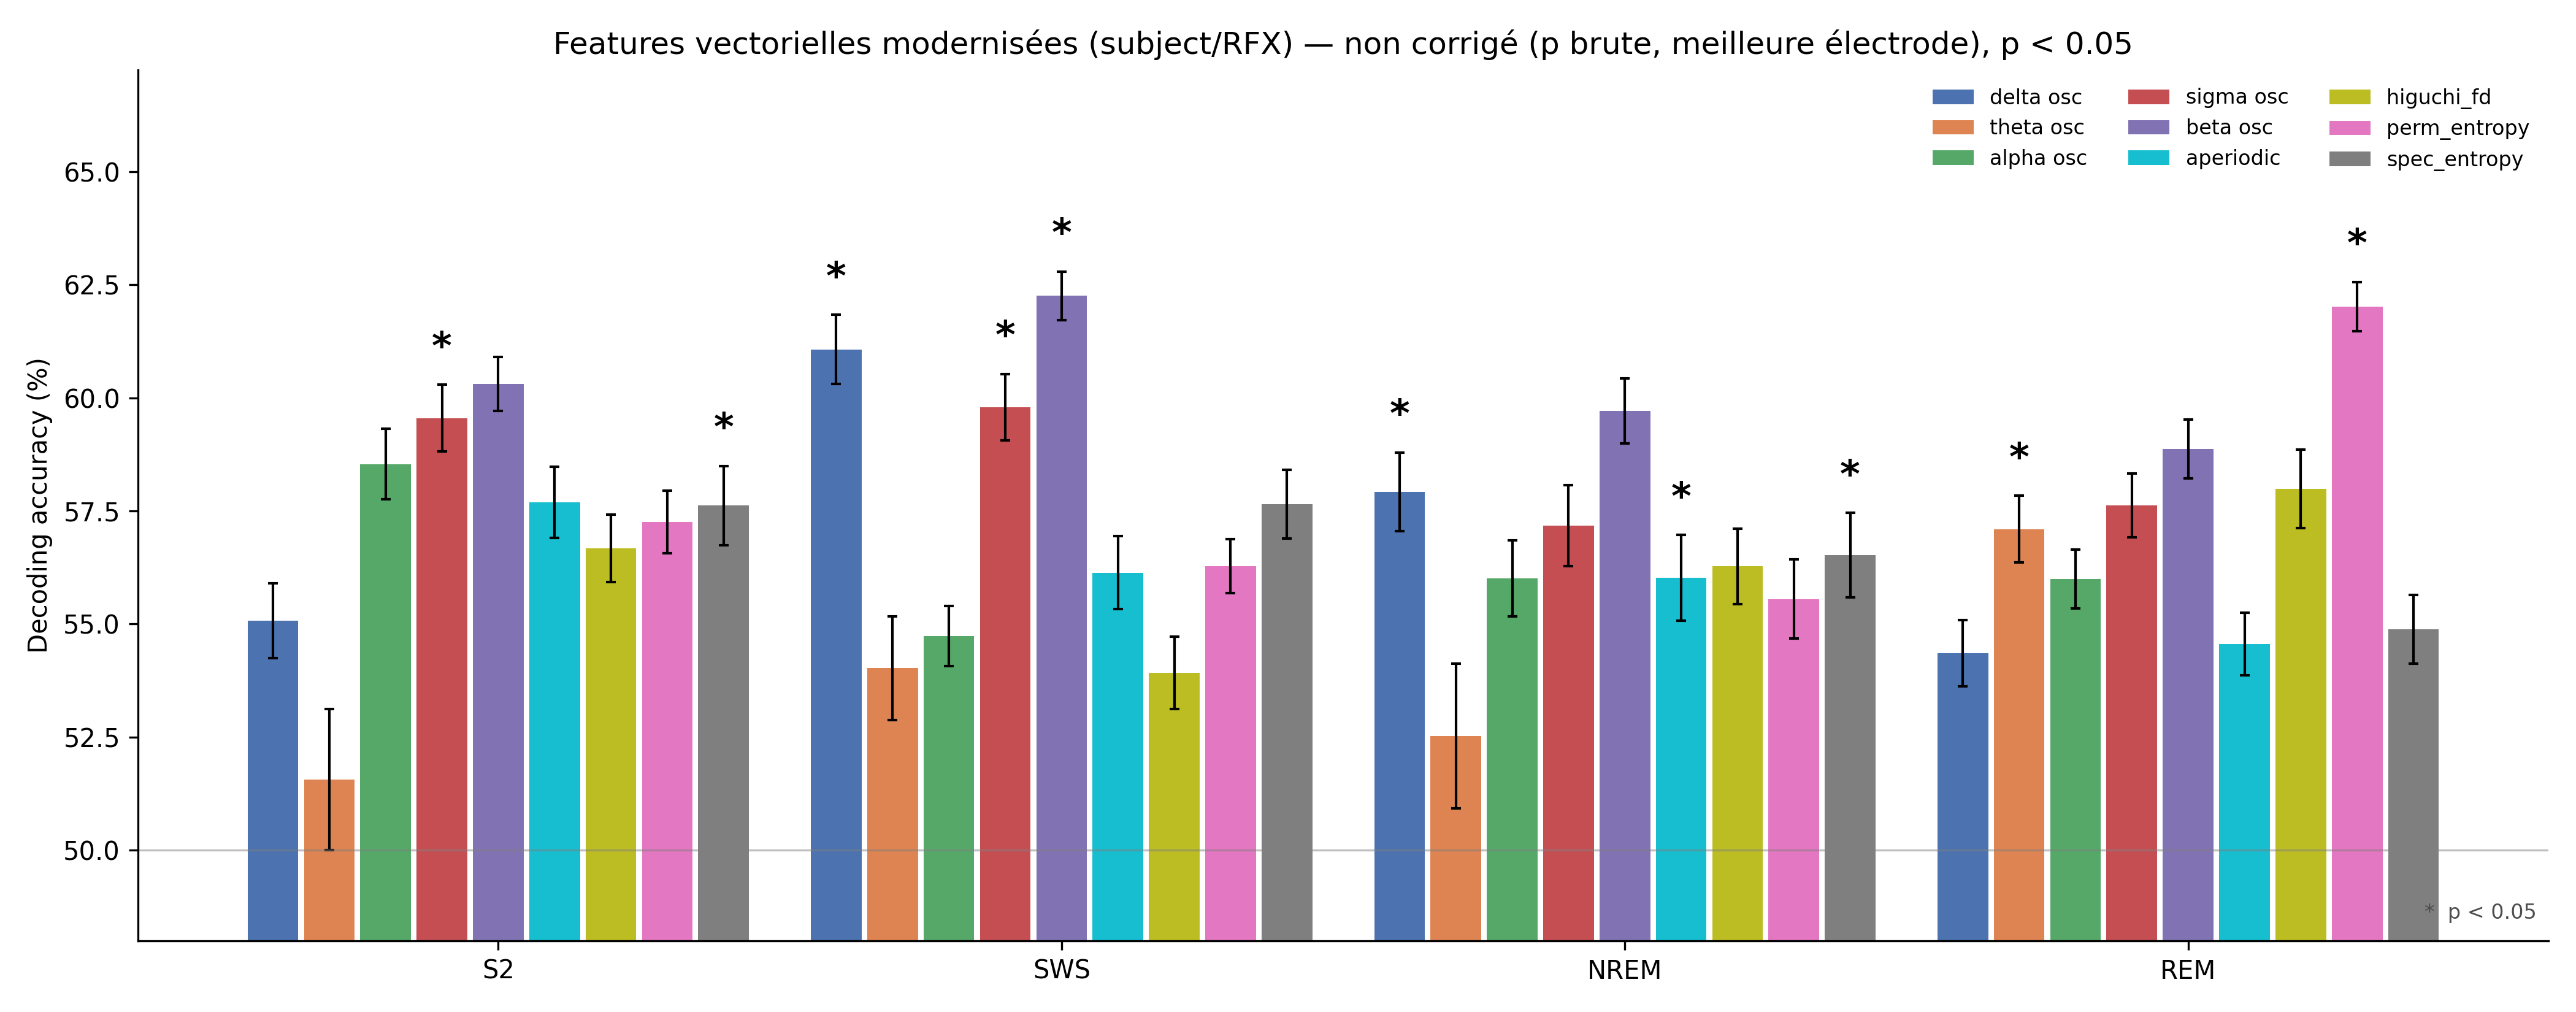
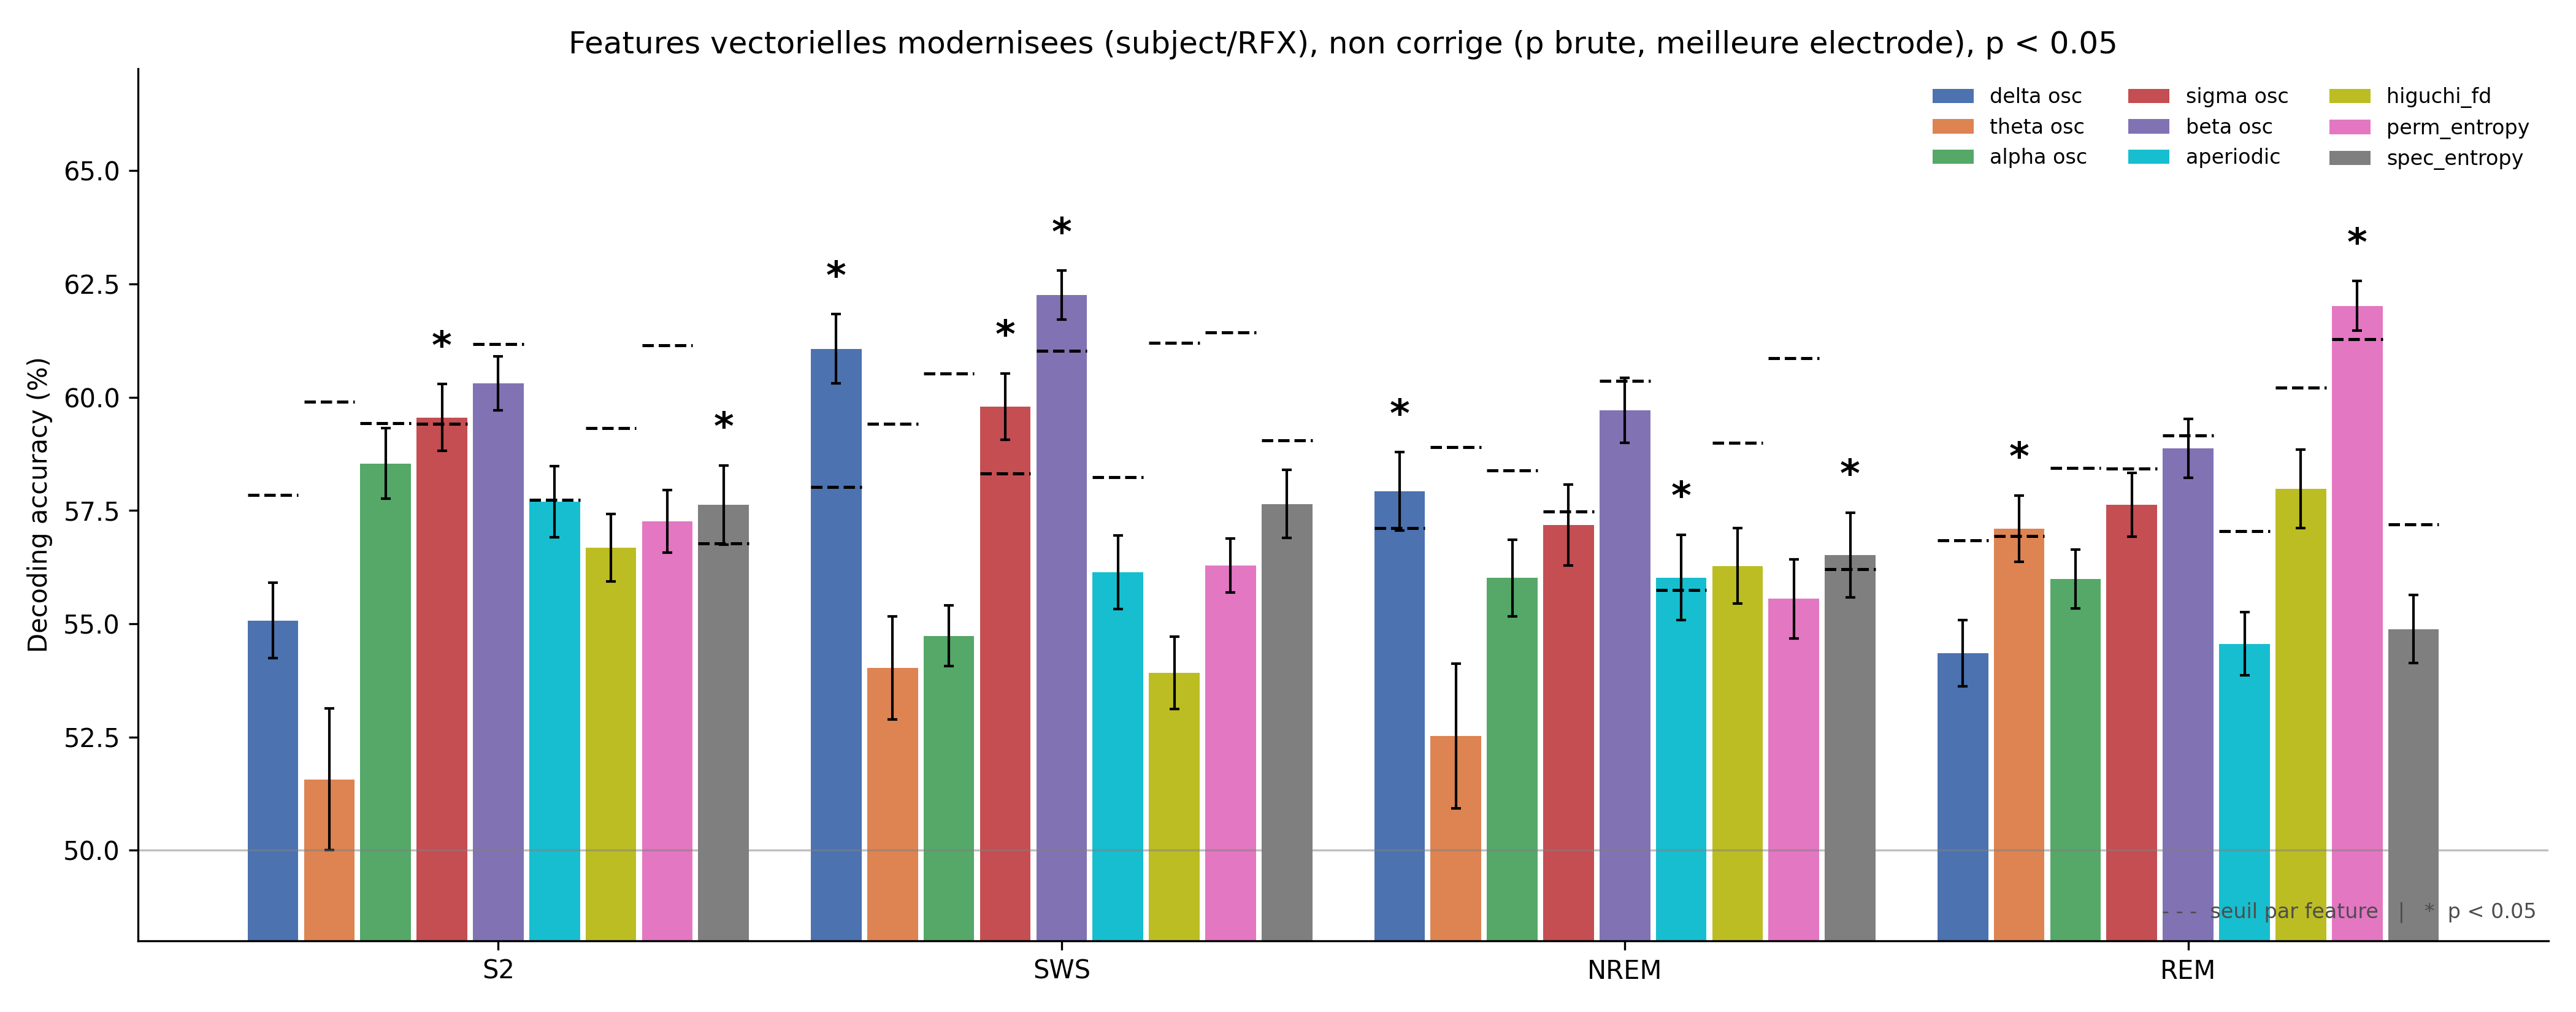
plott

diff --git a/plot_barplot_vector_clean.py b/plot_barplot_vector_clean.py
@@ -1,32 +1,32 @@
-"""Trois barplots des features vectorielles modernisées (au-delà d'Arthur), par stade.
+"""Trois barplots des features vectorielles modernisees (au-dela d'Arthur), par stade.
 
-Features tracées : psd_osc x 5 bandes (FOOOF oscillatoire), aperiodic (1/f FOOOF),
-higuchi_fd, perm_entropy, spec_entropy (complexité). Une barre par feature, hauteur
-= accuracy de la MEILLEURE électrode (comme la Fig. 4 d'Arthur retient le pic par
-électrode), error bar = acc_std inter-bootstrap, ligne de chance à 50 %.
+Features tracees : psd_osc x 5 bandes (FOOOF oscillatoire), aperiodic (1/f FOOOF),
+higuchi_fd, perm_entropy, spec_entropy (complexite). Une barre par feature, hauteur
+= accuracy de la MEILLEURE electrode (comme la Fig. 4 d'Arthur retient le pic par
+electrode), error bar = acc_std inter-bootstrap, ligne de chance a 50 %.
 
-Schéma de permutation : SUBJECT (RFX) uniquement.
+Schema de permutation : SUBJECT (RFX) uniquement.
 
-Trois figures, une par niveau de correction (l'étoile marque p < alpha) :
+Trois figures, une par niveau de correction (l'etoile marque p < alpha) :
 
-  raw    : p non corrigée de la meilleure électrode (d["pvals"][best]).
-           Aucune correction. Le plus permissif.
+  raw    : p non corrigee de la meilleure electrode (d["pvals"][best]).
+           Aucune correction. Le plus permissif. 9 features tracees.
 
-  arthur : max-stat sur les 19 électrodes de la feature SEULE
+  arthur : max-stat sur les 19 electrodes de la feature SEULE
            (compute_maxstat_correction.py --mode arthur -> *_maxstat_arthur.npz).
+           9 features tracees.
 
-  pooled : psd_osc corrigé sur le POOL des 5 bandes (95 tests, un seul max-stat
-           commun -> psd_osc_{state}_maxstat.npz). Les 4 features de complexité
-           n'ont pas de famille : isolées, leur pooled == arthur, on relit donc
-           leur *_maxstat_arthur.npz (comportement identique à build_pvalue_
-           summary_table.py, isolated_pooled_pval).
+  pooled : psd_osc corrige sur le POOL des 5 bandes (95 tests, un seul max-stat
+           commun -> psd_osc_{state}_maxstat.npz). SEULES les 5 psd_osc sont
+           tracees : les 4 complexites isolees n'ont pas de vrai pooling
+           (pooled == arthur), on ne les affiche donc pas dans cette figure.
 
-Trait pointillé (seuil max-stat) : tracé UNIQUEMENT sur le sous-groupe psd_osc de
-la figure pooled, seul cas où un seuil est commun à plusieurs barres. Ailleurs
-chaque feature a sa propre loi nulle : pas de seuil commun traçable, seules les
-étoiles portent l'information.
+Traits pointilles (seuil, style Riemannian k--) :
+  raw, arthur : un trait par barre, seuil propre a chaque feature (chaque feature
+                a sa propre loi nulle).
+  pooled      : un trait commun aux 5 barres psd_osc (seuil pooled partage).
 
-Prérequis (déjà générés via compute_maxstat_correction.py) :
+Prerequis (deja generes via compute_maxstat_correction.py) :
     CORR=/scratch/alouis/dream_features_noica_1000hz_overlap_corrected
     # arthur (9 features) :
     python compute_maxstat_correction.py --save-path $SRC --output-path $CORR \
@@ -63,13 +63,26 @@ from plot_common import (
     maxstat_threshold,
 )
 
-# Features vectorielles modernisées, dans l'ordre d'affichage.
+# Features vectorielles modernisees, dans l'ordre d'affichage.
 PSD_OSC_KEYS = [f"psd_osc_{b}" for b in ("delta", "theta", "alpha", "sigma", "beta")]
 COMPLEXITY_KEYS = ["aperiodic", "higuchi_fd", "perm_entropy", "spec_entropy"]
 VECTOR_KEYS = PSD_OSC_KEYS + COMPLEXITY_KEYS
 
-# psd_osc_* réutilisent les couleurs de bande de plot_common (via key_color).
-# Les 4 complexités ne finissent par aucune bande : key_color renverrait le même
+
+def keys_for_level(level: str):
+    """Features tracees selon le niveau.
+
+    raw / arthur : les 9 features (psd_osc x5 + 4 complexites).
+    pooled       : uniquement les 5 psd_osc. Les complexites isolees n'ont pas de
+                   vrai pooling (pooled == arthur), donc on ne les affiche pas ici :
+                   la figure pooled ne montre que les features reellement corrigees
+                   sur une famille.
+    """
+    return list(PSD_OSC_KEYS) if level == "pooled" else list(VECTOR_KEYS)
+
+
+# psd_osc_* reutilisent les couleurs de bande de plot_common (via key_color).
+# Les 4 complexites ne finissent par aucune bande : key_color renverrait le meme
 # gris fallback pour les 4. On leur donne des couleurs distinctes ici.
 COMPLEXITY_COLORS = {
     "aperiodic": "#17becf",
@@ -81,11 +94,11 @@ COMPLEXITY_COLORS = {
 WIDTH = 0.90
 Y_LABEL = "Decoding accuracy (%)"
 
-# Titres et suffixes de fichier par niveau de correction.
+# Titres par niveau de correction.
 LEVELS = {
-    "raw":    "non corrigé (p brute, meilleure électrode)",
-    "arthur": "max-stat électrodes (Arthur, feature seule)",
-    "pooled": "max-stat pooled (psd_osc sur 5 bandes ; complexités isolées)",
+    "raw":    "non corrige (p brute, meilleure electrode)",
+    "arthur": "max-stat electrodes (Arthur, feature seule)",
+    "pooled": "max-stat pooled, psd_osc sur 5 bandes",
 }
 
 
@@ -110,7 +123,7 @@ def feature_color(key: str) -> str:
 
 
 def load_arthur_pval(corrected_path: Path, key: str, state: str, best_idx: int):
-    """p corrigée max-stat (mode arthur) de la meilleure électrode, ou None."""
+    """p corrigee max-stat (mode arthur) de la meilleure electrode, ou None."""
     f = corrected_path / f"{key}_{state}_maxstat_arthur.npz"
     if not f.exists():
         return None
@@ -119,11 +132,11 @@ def load_arthur_pval(corrected_path: Path, key: str, state: str, best_idx: int):
 
 
 def load_pooled_pval(corrected_path: Path, key: str, state: str):
-    """p corrigée pooled de la meilleure électrode d'une feature psd_osc.
+    """p corrigee pooled de la meilleure electrode d'une feature psd_osc.
 
     Lit psd_osc_{state}_maxstat.npz (pool des 5 bandes). Les test_labels sont de
     la forme 'psd_osc_beta/O1' ; on prend, parmi les labels de cette key, la
-    p-value minimale (= meilleure électrode retenue dans le pool). None si absent.
+    p-value minimale (= meilleure electrode retenue dans le pool). None si absent.
     """
     f = corrected_path / f"psd_osc_{state}_maxstat.npz"
     if not f.exists():
@@ -146,27 +159,54 @@ def pooled_threshold(corrected_path: Path, state: str, alpha: float):
     return maxstat_threshold(null_max, alpha) * 100
 
 
-def collect(save_path: Path, corrected_path: Path, level: str, alpha: float):
-    """Pour chaque (stade, feature) : accuracy best-élec, std, significativité.
+def bar_threshold(save_path, corrected_path, key, state, best, level, alpha):
+    """Seuil d'accuracy (%) que la barre (best electrode) doit depasser pour etre
+    significative a ce niveau. Un seuil PROPRE A CHAQUE BARRE :
 
-    Retourne accs[state][feat], stds[...], sigs[...], et (pour pooled seulement)
-    un seuil psd_osc par stade (NaN pour les autres niveaux).
+      raw    : quantile (1-alpha) de la nulle de la best electrode seule
+               (perm_accs[:, best]), seuil non corrige de cette electrode.
+      arthur : quantile (1-alpha) de null_max (max sur 19 electrodes) de la
+               feature seule, seuil max-stat de cette feature.
+
+    Retourne NaN si la donnee manque (pas de trait plutot que crash).
     """
-    accs, stds, sigs, thr_psdosc = [], [], [], []
+    if level == "raw":
+        d = load_result(save_path, key, state)
+        if d is None or "perm_accs" not in d:
+            return np.nan
+        null_best = np.array(d["perm_accs"])[:, best]
+        return maxstat_threshold(null_best, alpha) * 100
+    if level == "arthur":
+        f = corrected_path / f"{key}_{state}_maxstat_arthur.npz"
+        if not f.exists():
+            return np.nan
+        null_max = np.load(f, allow_pickle=True)["null_max"]
+        return maxstat_threshold(null_max, alpha) * 100
+    return np.nan
+
+
+def collect(save_path: Path, corrected_path: Path, level: str, alpha: float):
+    """Pour chaque (stade, feature) : accuracy best-elec, std, significativite,
+    et seuil par barre (raw/arthur).
+
+    Retourne accs[state][feat], stds[...], sigs[...], bar_thr[...] (seuil par
+    barre, NaN en pooled), et thr_psdosc[state] (seuil groupe pooled, NaN sinon).
+    """
+    accs, stds, sigs, bar_thr, thr_psdosc = [], [], [], [], []
     for state in STATES_ORDERED:
-        a_row, s_row, sig_row = [], [], []
-        for key in VECTOR_KEYS:
+        a_row, s_row, sig_row, t_row = [], [], [], []
+        for key in keys_for_level(level):
             d = load_result(save_path, key, state)
             if d is None:
                 print(f"  absent : {key}_{state}.npz")
-                a_row.append(np.nan); s_row.append(np.nan); sig_row.append(False)
+                a_row.append(np.nan); s_row.append(np.nan)
+                sig_row.append(False); t_row.append(np.nan)
                 continue
 
             acc = np.array(d["acc_mean"], dtype=float)  # (19,)
             std = np.array(d["acc_std"], dtype=float)   # (19,) : un std par electrode
             best = int(np.argmax(acc))
             a_row.append(acc[best] * 100)
-            # error bar de l'electrode affichee (la best), pas un std global
             s_row.append(float(std[best]) * 100)
 
             if level == "raw":
@@ -178,29 +218,33 @@ def collect(save_path: Path, corrected_path: Path, level: str, alpha: float):
                 if key in PSD_OSC_KEYS:
                     p = load_pooled_pval(corrected_path, key, state)
                 else:
-                    # complexité isolée : pooled == arthur (feature seule)
+                    # complexite isolee : pooled == arthur (feature seule)
                     p = load_arthur_pval(corrected_path, key, state, best)
 
             sig_row.append(p is not None and p < alpha)
+            t_row.append(bar_threshold(save_path, corrected_path, key, state,
+                                       best, level, alpha))
 
         accs.append(a_row); stds.append(s_row); sigs.append(sig_row)
+        bar_thr.append(t_row)
         thr_psdosc.append(
             pooled_threshold(corrected_path, state, alpha) if level == "pooled" else np.nan
         )
-    return accs, stds, sigs, thr_psdosc
+    return accs, stds, sigs, bar_thr, thr_psdosc
 
 
 def make_figure(save_path, corrected_path, out_dir, level, alpha, ymin, ymax):
-    accs, stds, sigs, thr_psdosc = collect(save_path, corrected_path, level, alpha)
+    accs, stds, sigs, bar_thr, thr_psdosc = collect(save_path, corrected_path, level, alpha)
 
     fig, ax = plt.subplots(figsize=(14, 5.5))
-    n_keys = len(VECTOR_KEYS)
+    keys = keys_for_level(level)
+    n_keys = len(keys)
     group_width = n_keys + 1  # une barre vide entre stades
 
     handles, seen = [], set()
     n_sig = 0
     for g, state in enumerate(STATES_ORDERED):
-        for i, key in enumerate(VECTOR_KEYS):
+        for i, key in enumerate(keys):
             val = accs[g][i]
             if np.isnan(val):
                 continue
@@ -214,7 +258,15 @@ def make_figure(save_path, corrected_path, out_dir, level, alpha, ymin, ymax):
                 ax.text(x, val + stds[g][i] + 0.4, "*", ha="center", va="bottom",
                         fontsize=15, fontweight="bold")
 
-        # Trait pointillé : seulement pour pooled, seulement sur le sous-groupe psd_osc.
+            # Trait par barre (raw, arthur) : seuil propre a cette feature, trace
+            # sur la largeur de la barre. Style Riemannian (k--). Le pooled a son
+            # propre trait groupe, gere plus bas.
+            if level in ("raw", "arthur") and not np.isnan(bar_thr[g][i]):
+                t = bar_thr[g][i]
+                ax.plot([x - WIDTH / 2, x + WIDTH / 2], [t, t],
+                        "k--", lw=1.2, zorder=3)
+
+        # Trait pointille groupe : seulement pour pooled, sous-groupe psd_osc.
         if level == "pooled" and not np.isnan(thr_psdosc[g]):
             x0 = g * group_width - WIDTH / 2
             x1 = g * group_width + (len(PSD_OSC_KEYS) - 1) + WIDTH / 2
@@ -227,7 +279,7 @@ def make_figure(save_path, corrected_path, out_dir, level, alpha, ymin, ymax):
 
     ax.set_ylabel(Y_LABEL)
     ax.set_title(
-        f"Features vectorielles modernisées (subject/RFX) — {LEVELS[level]}, p < {alpha}"
+        f"Features vectorielles modernisees (subject/RFX), {LEVELS[level]}, p < {alpha}"
     )
     ax.set_xticks([g * group_width + (n_keys - 1) / 2 for g in range(len(STATES_ORDERED))])
     ax.set_xticklabels(STATES_ORDERED)
@@ -235,13 +287,15 @@ def make_figure(save_path, corrected_path, out_dir, level, alpha, ymin, ymax):
     ax.spines[["top", "right"]].set_visible(False)
 
     if handles:
-        ax.legend(handles, [band_label(k) for k in VECTOR_KEYS],
+        ax.legend(handles, [band_label(k) for k in keys],
                   frameon=False, fontsize=8, ncol=3,
                   loc="upper right", bbox_to_anchor=(1.0, 1.0))
 
     note = "*  p < %.2g" % alpha
     if level == "pooled":
         note = "- - -  seuil pooled psd_osc   |   " + note
+    else:  # raw, arthur : un seuil par barre
+        note = "- - -  seuil par feature   |   " + note
     ax.text(0.995, 0.02, note, transform=ax.transAxes, ha="right", va="bottom",
             fontsize=8, color="0.3")
 